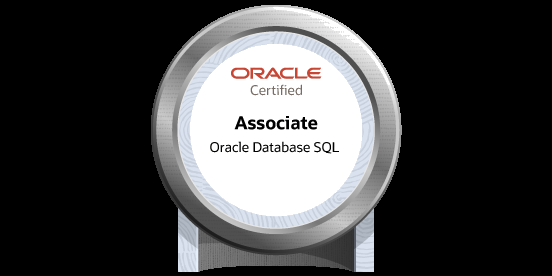
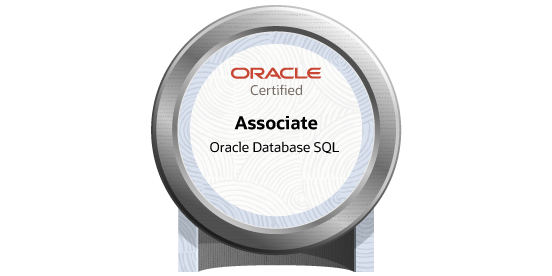
11

diff --git a/index.html b/index.html
@@ -254,6 +254,7 @@
     display: flex; align-items: center; justify-content: center;
     background: #f5f5f5; padding: 16px; min-height: 160px;
   }
+  .cert-img-wide { background: var(--card) !important; }
   .cert-card img {
     max-width: 100%; width: auto;
     height: auto; max-height: 200px;
@@ -564,8 +565,8 @@
     <p style="font-size:13px;color:var(--muted);margin-bottom:24px;font-family:'Space Mono',monospace;text-align:center;">Click any certificate to expand</p>
     <div class="certs-grid">
       <div class="cert-card" onclick="openCertLb(0)">
-        <div class="cert-img-wrap">
-          <img src="Oracle_Badge.png" alt="Oracle Certified Associate Badge" loading="lazy">
+        <div class="cert-img-wrap cert-img-wide">
+          <img src="Oracle_Badge.png" alt="Oracle Certified Associate Badge" loading="lazy" style="max-width:90%;max-height:120px;width:auto;height:auto;">
           <span class="cert-expand-hint">Show Cert</span>
         </div>
         <div class="cert-label">Oracle Database SQL Certified Associate</div>
